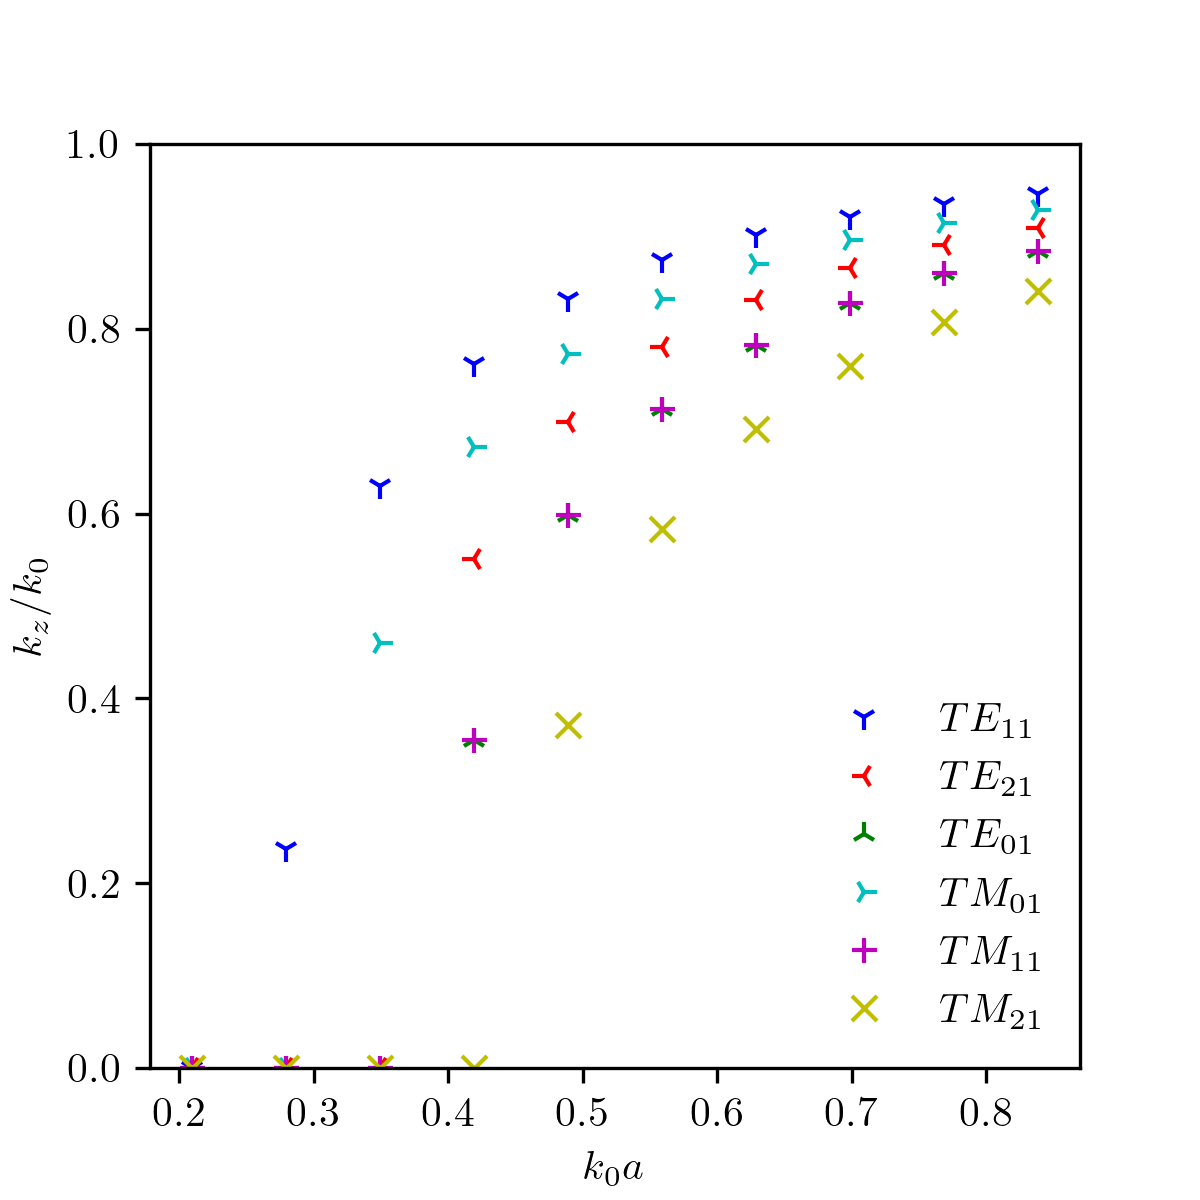
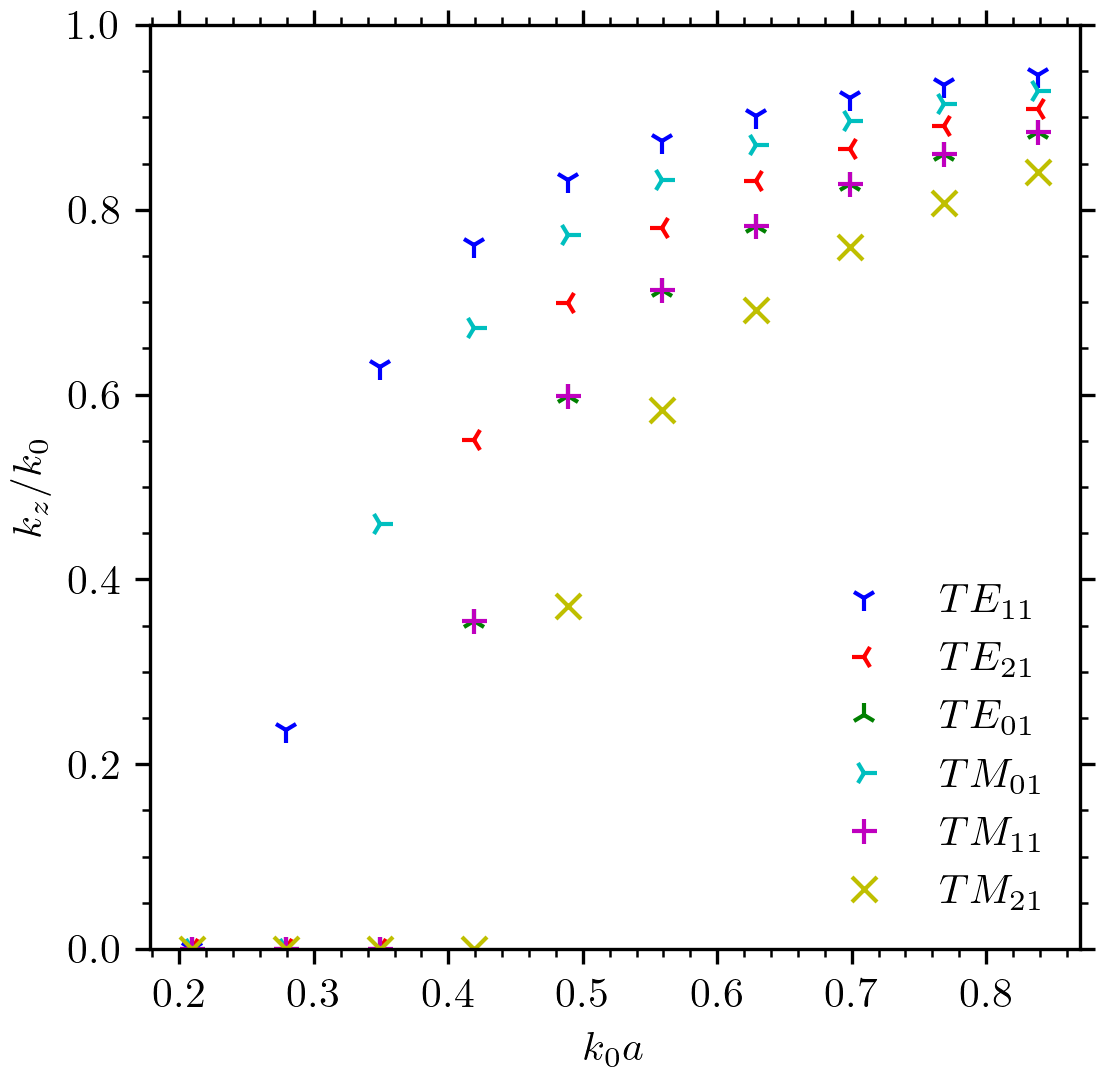
made all figures

diff --git a/main_ridged_rect.py b/main_ridged_rect.py
@@ -28,7 +28,6 @@ def main() -> None:
     locations = np.array(mesh.node_location_list)
     connectivity = np.array(mesh.connectivity_list)
 
-    # make plots
     plt.rcParams["text.usetex"] = True
     plt.rcParams["figure.figsize"] = (4, 4)
     plt.rcParams["figure.dpi"] = 300
@@ -49,41 +48,105 @@ def main() -> None:
     tm21_th_kc = np.sqrt((2 * np.pi / a) ** 2 + (np.pi / b) ** 2)
     tm31_th_kc = np.sqrt((3 * np.pi / a) ** 2 + (1 * np.pi / b) ** 2)
 
-    """
-    plt.plot(k0_th_a, np.sqrt((2*np.pi*frequencies_th)**2 * mu * epsilon - te10_th_kc) / k0_th, "b")
-    plt.plot(k0_th_a, np.sqrt((2*np.pi*frequencies_th)**2 * mu * epsilon - te01_th_kc) / k0_th, "g")
-    plt.plot(k0_th_a, np.sqrt((2*np.pi*frequencies_th)**2 * mu * epsilon - te20_th_kc) / k0_th, "r")
-    plt.plot(k0_th_a, np.sqrt((2*np.pi*frequencies_th)**2 * mu * epsilon - tm11_th_kc) / k0_th, "c")
-    plt.plot(k0_th_a, np.sqrt((2*np.pi*frequencies_th)**2 * mu * epsilon - tm21_th_kc) / k0_th, "m")
-    plt.plot(k0_th_a, np.sqrt((2*np.pi*frequencies_th)**2 * mu * epsilon - tm31_th_kc) / k0_th, "y")
-    """
+    fig, ax = plt.subplots()
 
-    plt.plot(k0_s_a, np.sqrt((2*np.pi*frequencies_s)**2 * mu * epsilon - np.sqrt(first_eig_vals_TE[1])) / k0_s, "b1", label=r"$TE_{10}$")
-    plt.plot(k0_s_a, np.sqrt((2*np.pi*frequencies_s)**2 * mu * epsilon - np.sqrt(first_eig_vals_TE[2])) / k0_s, "r3", label=r"$TE_{01}$")
-    plt.plot(k0_s_a, np.sqrt((2*np.pi*frequencies_s)**2 * mu * epsilon - np.sqrt(first_eig_vals_TE[3])) / k0_s, "g2", label=r"$TE_{20}$")
+    fig.dpi = 300
+    fig.set_size_inches(4, 4)
 
-    plt.plot(k0_s_a, np.sqrt((2*np.pi*frequencies_s)**2 * mu * epsilon - np.sqrt(first_eig_vals_TM[0])) / k0_s, "c4", label=r"$TM_{11}$")
-    plt.plot(k0_s_a, np.sqrt((2*np.pi*frequencies_s)**2 * mu * epsilon - np.sqrt(first_eig_vals_TM[1])) / k0_s, "m+", label=r"$TM_{21}$")
-    plt.plot(k0_s_a, np.sqrt((2*np.pi*frequencies_s)**2 * mu * epsilon - np.sqrt(first_eig_vals_TM[2])) / k0_s, "yx", label=r"$TM_{31}$")
+    ax.plot(k0_th_a, np.sqrt((2*np.pi*frequencies_th)**2 * mu * epsilon - te10_th_kc) / k0_th, "b")
+    ax.plot(k0_th_a, np.sqrt((2*np.pi*frequencies_th)**2 * mu * epsilon - te01_th_kc) / k0_th, "g")
+    ax.plot(k0_th_a, np.sqrt((2*np.pi*frequencies_th)**2 * mu * epsilon - te20_th_kc) / k0_th, "r")
+    ax.plot(k0_th_a, np.sqrt((2*np.pi*frequencies_th)**2 * mu * epsilon - tm11_th_kc) / k0_th, "c")
+    ax.plot(k0_th_a, np.sqrt((2*np.pi*frequencies_th)**2 * mu * epsilon - tm21_th_kc) / k0_th, "m")
+    ax.plot(k0_th_a, np.sqrt((2*np.pi*frequencies_th)**2 * mu * epsilon - tm31_th_kc) / k0_th, "y")
 
-    plt.ylim((0, 1))
-    plt.xlabel(r"$k_0a$")
-    plt.ylabel(r"$k_z/k_0$")
+    ax.plot(k0_s_a, np.sqrt((2*np.pi*frequencies_s)**2 * mu * epsilon - np.sqrt(first_eig_vals_TE[1])) / k0_s, "b1", label=r"$TE_{10}$")
+    ax.plot(k0_s_a, np.sqrt((2*np.pi*frequencies_s)**2 * mu * epsilon - np.sqrt(first_eig_vals_TE[2])) / k0_s, "r3", label=r"$TE_{01}$")
+    ax.plot(k0_s_a, np.sqrt((2*np.pi*frequencies_s)**2 * mu * epsilon - np.sqrt(first_eig_vals_TE[3])) / k0_s, "g2", label=r"$TE_{20}$")
 
-    plt.legend(loc="lower right", frameon=False)
+    ax.plot(
+        k0_s_a,
+        np.sqrt(
+            (2 * np.pi * frequencies_s) ** 2 * mu * epsilon
+            - np.sqrt(first_eig_vals_TM[0])
+        )
+        / k0_s,
+        "c4",
+        label=r"$TM_{11}$",
+    )
+    ax.plot(
+        k0_s_a,
+        np.sqrt(
+            (2 * np.pi * frequencies_s) ** 2 * mu * epsilon
+            - np.sqrt(first_eig_vals_TM[1])
+        )
+        / k0_s,
+        "m+",
+        label=r"$TM_{21}$",
+    )
+    ax.plot(
+        k0_s_a,
+        np.sqrt(
+            (2 * np.pi * frequencies_s) ** 2 * mu * epsilon
+            - np.sqrt(first_eig_vals_TM[2])
+        )
+        / k0_s,
+        "yx",
+        label=r"$TM_{31}$",
+    )
+
+    ax.set_ylim((0, 1))
+    ax.set_xlabel(r"$k_0a$")
+    ax.set_ylabel(r"$k_z/k_0$")
+
+    ax.legend(loc="lower right", frameon=False)
+
+    plt.minorticks_on()
+    ax.tick_params(
+        which="both",
+        axis="both",
+        top=True,
+        right=True,
+        labeltop=False,
+        labelright=False,
+    )
 
     plt.show()
 
-    plt.tripcolor(
-        locations[:, 0],
-        locations[:, 1],
-        np.real(eig_vec_TE[:, 116]),
-        cmap="coolwarm",
+    # make plots
+    fig, ax = plt.subplots()
+
+    fig.dpi = 300
+    fig.set_size_inches(6, 3.5)
+
+    ax.set_xlabel(r"$\hat{x}$-Position [m]")
+    ax.set_ylabel(r"$\hat{y}$-Position [m]")
+    plt.minorticks_on()
+    ax.tick_params(
+        which="both",
+        axis="both",
+        top=True,
+        right=True,
+        labeltop=False,
+        labelright=False,
     )
 
-    square1 = plt.Rectangle((-0.0025/2,-b/2), 0.0025, 0.0025, color="white", fill=True)
+    img = ax.tripcolor(
+        locations[:, 0],
+        locations[:, 1],
+        np.real(eig_vec_TE[:, 119]),
+        cmap="coolwarm",
+    )
+    cbar = fig.colorbar(img, orientation="horizontal", pad=0.2)
+    cbar.set_label(r"$H_z$ [A/m]")
+
+    square1 = plt.Rectangle(
+        (-0.0025 / 2, -b / 2), 0.0025, 0.0025, color="white", fill=True
+    )
     plt.gca().add_patch(square1)
-    square2 = plt.Rectangle((-0.0025/2,b/4+0.00001), 0.0025, 0.0025, color="white", fill=True)
+    square2 = plt.Rectangle(
+        (-0.0025 / 2, b / 4 + 0.00001), 0.0025, 0.0025, color="white", fill=True
+    )
     plt.gca().add_patch(square2)
 
     plt.show()

diff --git a/main_circ.py b/main_circ.py
@@ -37,45 +37,64 @@ def main() -> None:
     mu = 1.25663706212e-6
     a = 0.02
     
-    frequencies_th = np.linspace(0.5e9, 2e9, 1000)
     frequencies_s = np.linspace(0.5e9, 2e9, 10)
-    k0_th = 2 * np.pi * frequencies_th * np.sqrt(mu * epsilon)
-    k0_th_a = 2 * np.pi * frequencies_th * np.sqrt(mu * epsilon) * a
     k0_s = 2 * np.pi * frequencies_s * np.sqrt(mu * epsilon)
     k0_s_a = k0_s * a
 
-    """
-    plt.plot(k0_th_a, np.sqrt((2*np.pi*frequencies_th)**2 * mu * epsilon - (1.841/a)**2) / k0_th, "b")
-    plt.plot(k0_th_a, np.sqrt((2*np.pi*frequencies_th)**2 * mu * epsilon - te01_th_kc) / k0_th, "g")
-    plt.plot(k0_th_a, np.sqrt((2*np.pi*frequencies_th)**2 * mu * epsilon - te20_th_kc) / k0_th, "r")
-    plt.plot(k0_th_a, np.sqrt((2*np.pi*frequencies_th)**2 * mu * epsilon - tm11_th_kc) / k0_th, "c")
-    plt.plot(k0_th_a, np.sqrt((2*np.pi*frequencies_th)**2 * mu * epsilon - tm21_th_kc) / k0_th, "m")
-    plt.plot(k0_th_a, np.sqrt((2*np.pi*frequencies_th)**2 * mu * epsilon - tm31_th_kc) / k0_th, "y")
-    """
-
+    fig, ax = plt.subplots()
     
-    plt.plot(k0_s_a, np.sqrt((2*np.pi*frequencies_s)**2 * mu * epsilon - np.sqrt(first_eig_vals_TE[1])) / k0_s, "b1", label=r"$TE_{11}$")
-    plt.plot(k0_s_a, np.sqrt((2*np.pi*frequencies_s)**2 * mu * epsilon - np.sqrt(first_eig_vals_TE[3])) / k0_s, "r3", label=r"$TE_{21}$")
-    plt.plot(k0_s_a, np.sqrt((2*np.pi*frequencies_s)**2 * mu * epsilon - np.sqrt(first_eig_vals_TE[5])) / k0_s, "g2", label=r"$TE_{01}$")
+    ax.plot(k0_s_a, np.sqrt((2*np.pi*frequencies_s)**2 * mu * epsilon - np.sqrt(first_eig_vals_TE[1])) / k0_s, "b1", label=r"$TE_{11}$")
+    ax.plot(k0_s_a, np.sqrt((2*np.pi*frequencies_s)**2 * mu * epsilon - np.sqrt(first_eig_vals_TE[3])) / k0_s, "r3", label=r"$TE_{21}$")
+    ax.plot(k0_s_a, np.sqrt((2*np.pi*frequencies_s)**2 * mu * epsilon - np.sqrt(first_eig_vals_TE[5])) / k0_s, "g2", label=r"$TE_{01}$")
 
-    plt.plot(k0_s_a, np.sqrt((2*np.pi*frequencies_s)**2 * mu * epsilon - np.sqrt(first_eig_vals_TM[0])) / k0_s, "c4", label=r"$TM_{01}$")
-    plt.plot(k0_s_a, np.sqrt((2*np.pi*frequencies_s)**2 * mu * epsilon - np.sqrt(first_eig_vals_TM[1])) / k0_s, "m+", label=r"$TM_{11}$")
-    plt.plot(k0_s_a, np.sqrt((2*np.pi*frequencies_s)**2 * mu * epsilon - np.sqrt(first_eig_vals_TM[3])) / k0_s, "yx", label=r"$TM_{21}$")
+    ax.plot(k0_s_a, np.sqrt((2*np.pi*frequencies_s)**2 * mu * epsilon - np.sqrt(first_eig_vals_TM[0])) / k0_s, "c4", label=r"$TM_{01}$")
+    ax.plot(k0_s_a, np.sqrt((2*np.pi*frequencies_s)**2 * mu * epsilon - np.sqrt(first_eig_vals_TM[1])) / k0_s, "m+", label=r"$TM_{11}$")
+    ax.plot(k0_s_a, np.sqrt((2*np.pi*frequencies_s)**2 * mu * epsilon - np.sqrt(first_eig_vals_TM[3])) / k0_s, "yx", label=r"$TM_{21}$")
     
-    plt.ylim((0, 1))
-    plt.xlabel(r"$k_0a$")
-    plt.ylabel(r"$k_z/k_0$")
+    ax.set_ylim((0, 1))
+    ax.set_xlabel(r"$k_0a$")
+    ax.set_ylabel(r"$k_z/k_0$")
 
-    plt.legend(loc="lower right", frameon=False)
+    ax.legend(loc="lower right", frameon=False)
+    plt.minorticks_on()
+    ax.tick_params(
+        which="both",
+        axis="both",
+        top=True,
+        right=True,
+        labeltop=False,
+        labelright=False,
+    )
 
     plt.show()
     
-    plt.tripcolor(
+    
+    fig, ax = plt.subplots()
+    fig.dpi = 300
+    fig.set_size_inches(7, 11)
+
+    ax.set_xlabel(r"$\hat{x}$-Position [m]")
+    ax.set_ylabel(r"$\hat{y}$-Position [m]")
+    plt.minorticks_on()
+    ax.tick_params(
+        which="both",
+        axis="both",
+        top=True,
+        right=True,
+        labeltop=False,
+        labelright=False,
+    )
+    
+    img = ax.tripcolor(
         locations[:, 0],
         locations[:, 1],
-        np.real(eig_vec_TE[:, 207]),
+        np.real(eig_vec_TE[:, 211]),
         cmap="coolwarm",
     )
+    
+    cbar = fig.colorbar(img, orientation="horizontal", pad=0.1)
+    cbar.set_label(r"$H_z$ [A/m]")
+    
     plt.show()
 
 

diff --git a/report/numerical-results.tex b/report/numerical-results.tex
@@ -4,7 +4,7 @@ With the mathematical model now fully established we now proceed to discus the i
 
 \subsection{Implementation}
 \label{subsec:impl}
-All meshes used in the following sections were generated using Coreform Cubit \cite{cubit} with a tutorial provided by \cite{rothlecnotes}. For the rectangular waveguide found in \ref{subsec:vv}, a WR-90, X-band waveguide with $a=0.02286$m and $b=0.01016$m was used \cite{everythingrf}. For the circular waveguide used in \ref{subsec:circ_guides}, a similarly sized circular waveguide of $r=0.01$m was used. In order to compare the non-ridged to the ridged waveguide the same WR-90, X-band waveguide was used in Section \ref{subsec:rid_guides} as in Section \ref{subsec:vv} however with two $0.0025\times0.0025$m notches cut out along the long edge. Example meshes of the later two geometries can be found in Figures \ref{fig:circular_guide}-\ref{fig:ridged_guide}. These meshes were generated using Coreform Cubit's \verb|TriAdvance| algorithm all containing $\approx2000$ elements which is appropriate for the applications studied here. Coreform Cubit's \verb|nodeset| feature was used to create a set of all nodes on the boundaries of these geometries. This allows for $O(1)$ lookups of elements on the boundary which was utilized heavily when performing TE mode analysis. These meshes were saved into the ANSYS \verb|.inp| ASCII format which was chosen as it is human readable which was invaluable during the development of this code.
+All meshes used in the following sections were generated using Coreform Cubit \cite{cubit} with a tutorial provided by \cite{rothlecnotes}. For the rectangular waveguide found in \ref{subsec:vv}, a WR-90, X-band waveguide with $a=0.02286$m and $b=0.01016$m was used \cite{everythingrf}. For the circular waveguide used in \ref{subsec:circ_guides}, a similarly sized circular waveguide of radius $r=0.01$m was used. In order to compare the non-ridged to the ridged waveguide the same WR-90, X-band waveguide was used in Section \ref{subsec:rid_guides} as in Section \ref{subsec:vv} however with two $0.0025\times0.0025$m notches cut out along the long edge. Example meshes of the later two geometries can be found in Figures \ref{fig:circular_guide}-\ref{fig:ridged_guide}. These meshes were generated using Coreform Cubit's \verb|TriAdvance| algorithm all containing $\approx2000$ elements which is appropriate for the applications studied here. Coreform Cubit's \verb|nodeset| feature was used to create a set of all nodes on the boundaries of these geometries. This allows for $O(1)$ lookups of elements on the boundary which was utilized heavily when performing TE mode analysis. These meshes were saved into the ANSYS \verb|.inp| ASCII format which was chosen as it is human readable which was invaluable during the development of this code.
 
 \begin{figure}[h!]  
 	\centering
@@ -57,7 +57,7 @@ As seen in Fig. \ref{fig:rect_disp}, the dispersion relations predicted by the i
 
 \subsection{Circular Waveguides}
 \label{subsec:circ_guides}
-With the model successfully validated against the analytic results of a rectangular waveguide, we now move to assess a circular waveguide of radius 
+With the model successfully validated against the analytic results of a rectangular waveguide, we now move to assess a circular waveguide of radius $r=0.01$m. 
 
 \subsection{Comparison of Ridged and Non-Ridged Waveguides}
 \label{subsec:rid_guides}
